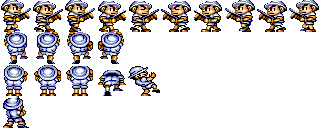
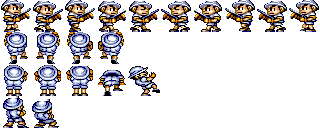
Arpon sin animación

Changed region(s): [[0.0938, 0.7812, 0.1875, 1.0]]

diff --git a/Project/02-Bubble/TileMap.cpp b/Project/02-Bubble/TileMap.cpp
@@ -276,14 +276,14 @@ bool TileMap::collisionMoveDown(const glm::ivec2& pos, const glm::ivec2& size, i
 bool TileMap::collisionMoveUp(const glm::ivec2& pos, const glm::ivec2& size, int* posY) const {
 	int x0, x1, y;
 
-	x0 = pos.x / static_cast<float>(SCREEN_WIDTH) * mapSize.x;
-	x1 = (pos.x + size.x - 1) / static_cast<float>(SCREEN_WIDTH) * mapSize.x;
-	y = pos.y / static_cast<float>(SCREEN_HEIGHT) * mapSize.y;
+	x0 = pos.x / tileSize;
+	x1 = (pos.x + size.x - 1) / tileSize;
+	y = (pos.y + size.y - 1) / tileSize;
 
 	for (int x = x0; x <= x1; x++) {
 		if (map[y * mapSize.x + x] != 0) {
-			if (*posY - (pos.y / static_cast<float>(SCREEN_HEIGHT) * mapSize.y) + size.y <= 4) {
-				*posY = pos.y / static_cast<float>(SCREEN_HEIGHT) * mapSize.y + size.y;
+			if (*posY - (pos.y / tileSize * mapSize.y) + size.y <= 4) {
+				*posY = pos.y / tileSize * mapSize.y + size.y;
 				return true;
 			}
 		}

diff --git a/Project/02-Bubble/Harpoon.h b/Project/02-Bubble/Harpoon.h
@@ -1,0 +1,27 @@
+// Harpoon.h
+#ifndef HARPOON_H
+#define HARPOON_H
+
+#include <glm/glm.hpp>
+#include "Sprite.h"
+#include "TileMap.h"
+#include <vector>
+
+class Harpoon {
+public:
+    void init(const glm::vec2& initPosition, ShaderProgram& shaderProgram);
+    void update(int deltaTime);
+    void render();
+    void setTileMap(TileMap* tileMap);
+    bool isAlive() const;
+    void kill();
+
+private:
+    glm::vec2 posHarpoon;
+    bool alive;
+    Sprite* sprite;
+    Texture spritesheet;
+    TileMap* map;
+};
+
+#endif // HARPOON_H

diff --git a/Project/02-Bubble/Player.h b/Project/02-Bubble/Player.h
@@ -4,6 +4,8 @@
 
 #include "Sprite.h"
 #include "TileMap.h"
+#include "Harpoon.h"
+#include "ShaderProgram.h"
 
 
 // Player is basically a Sprite that represents the player. As such it has
@@ -20,6 +22,7 @@ public:
 	
 	void setTileMap(TileMap *tileMap);
 	void setPosition(const glm::vec2 &pos);
+	void shootHarpoon();
 	
 private:
 	bool bJumping;
@@ -28,6 +31,8 @@ private:
 	Texture spritesheet;
 	Sprite *sprite;
 	TileMap *map;
+	vector<Harpoon*> harpoons;
+	ShaderProgram texProgram;
 
 };
 
